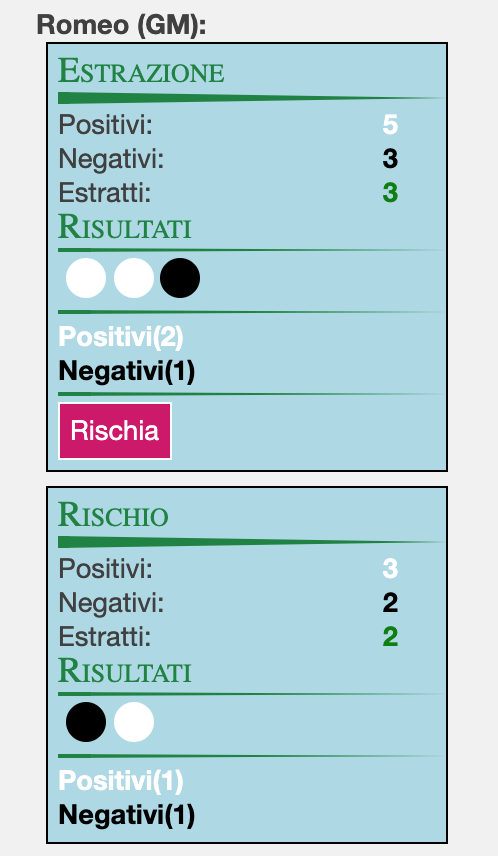
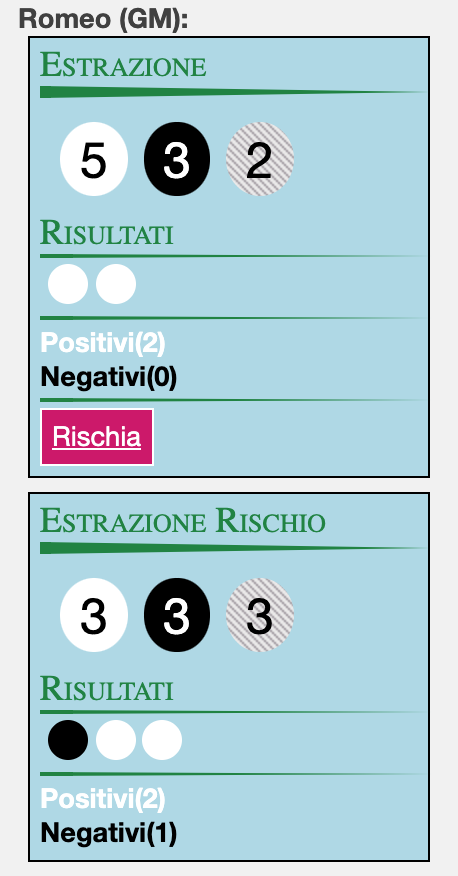
cambio layout risultati

Changed region(s): [[0.0306, 0.0, 0.9476, 1.0]]

diff --git a/nottheendroll.js b/nottheendroll.js
@@ -51,8 +51,9 @@ var NotTheEnd = (function() {
         var arrowstyle = 'style="border: none; border-top: 3px solid transparent; border-bottom: 3px solid transparent; border-left: 195px solid rgb(26, 132, 64); margin-bottom: 2px; margin-top: 2px;"';
         var line = 'style="border: none; border-top: 1px solid transparent; border-bottom: 1px solid transparent; border-left: 196px solid rgb(26, 132, 64); margin-bottom: 3px; margin-top: 2px;"';
         var headstyle = 'style="color: rgb(26, 132, 64); font-size: 18px; text-align: left; font-variant: small-caps; font-family: Times, serif;"';
-
         var rishiaHtml='';
+
+
         var title='Estrazione Rischio';
         if (!rischia) {
            var title='Estrazione';
@@ -63,11 +64,17 @@ var NotTheEnd = (function() {
         var message = '<div ' + divstyle + '>' + //--
             '<div ' + headstyle + '>' + title + '</div>' + //--
             '<div ' + arrowstyle + '></div>' + //--
-            '<table>' + //--
-            '<tr><td>Positivi: </td><td ' + astyle + '><b style="color:white">' + positivi + '</b></td></tr>' + //--
-            '<tr><td>Negativi: </td><td ' + astyle + '><b style="color:black">' + negativi + '</b></td></tr>' + //--
-            '<tr><td>Estratti: </td><td ' + astyle + '><b style="color:green">' + daEstrarre + '</b></td></tr>' + //--
-            '</table>' + //--
+            '<div style="padding:10px">'+
+            '<span style=" background-color: white;border: none;color: black; padding: 10px;text-align: center;text-decoration: none;display: inline-block;font-size: 25px;border-radius: 50%;">' +
+                         positivi +
+            '</span>&nbsp;&nbsp;'+
+            '<span style=" background-color: black;border: none;color: white; padding: 10px;text-align: center;text-decoration: none;display: inline-block;font-size: 25px;border-radius: 50%;">' +
+                       negativi +
+            '</span>&nbsp;&nbsp;'+
+            '<span style="background-color: #eae9e9;background-image: url(https:\\//i.ibb.co/jgZpZyv/pattern-estratti.png);border: none;color: black; padding: 10px;text-align: center;text-decoration: none;display: inline-block;font-size: 25px;border-radius: 50%;">'+
+                         daEstrarre +
+            '</span>&nbsp;&nbsp;'+
+            '</div>'+
             '<div></div>' +
             '<div ' + headstyle + '>Risultati</div>' + //--
             '<div ' + line + '></div>' +
